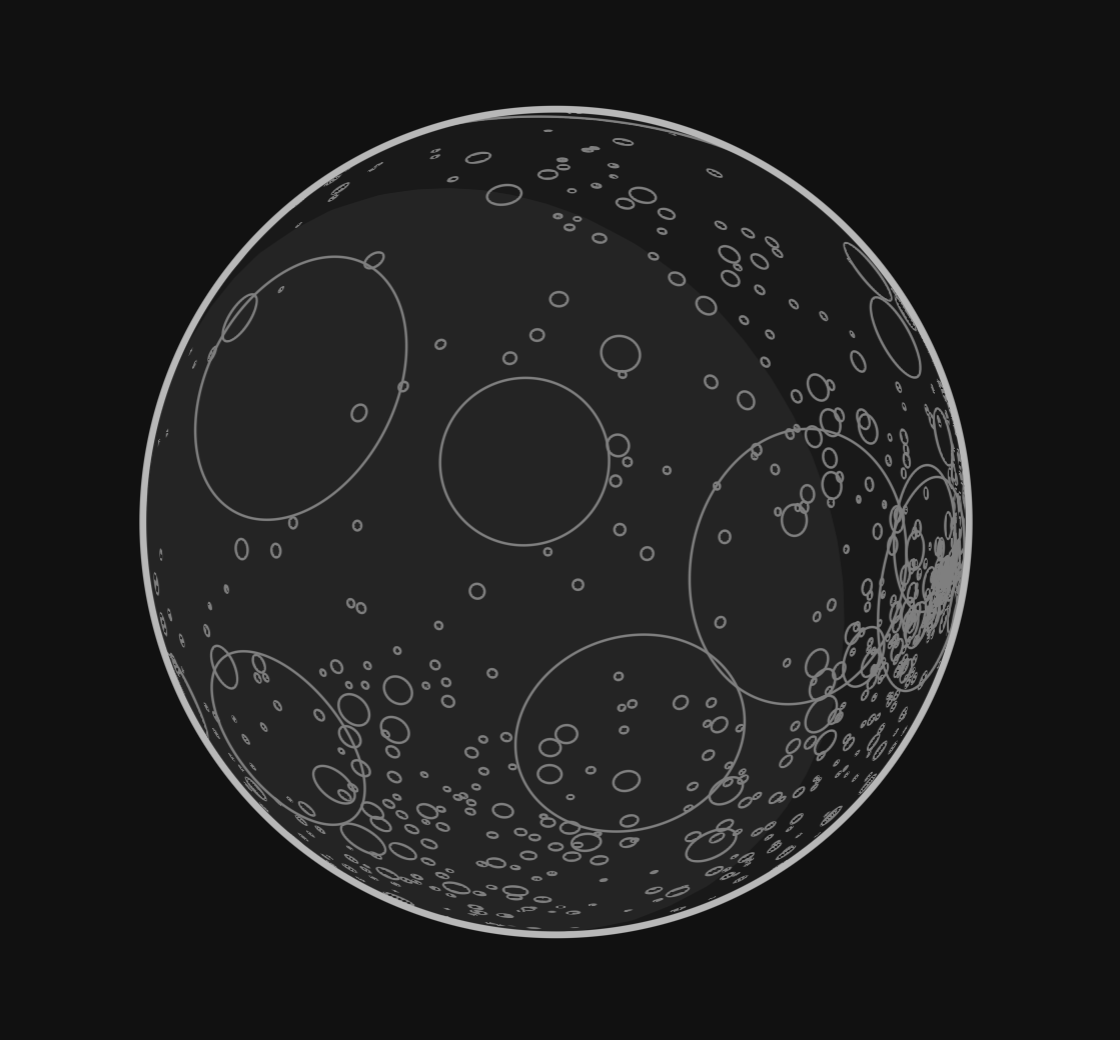
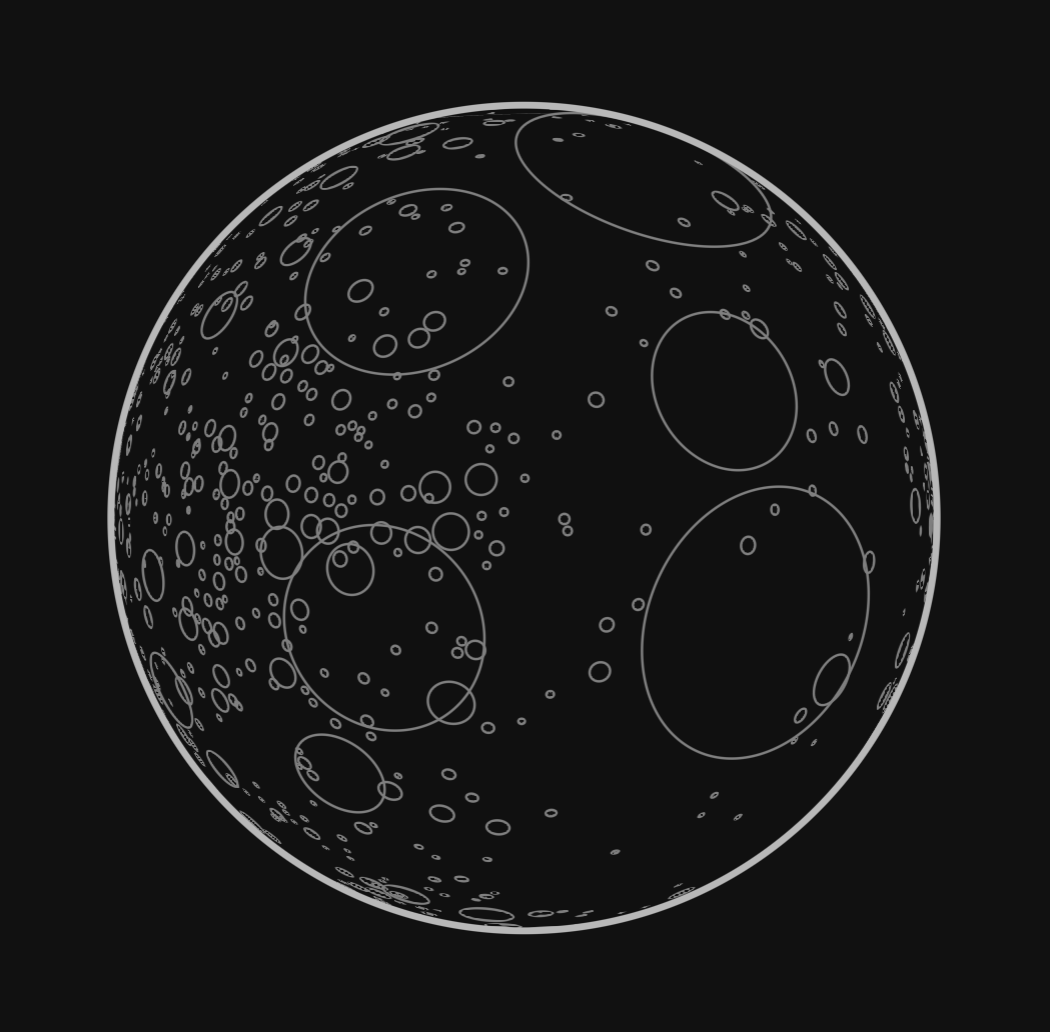
Crater page

diff --git a/pages/lab/craters/MoonCraters.tsx b/pages/lab/craters/MoonCraters.tsx
@@ -49,7 +49,7 @@ export function MoonCraters() {
         />
       </Billboard>
       <Sphere args={[RADIUS * 0.99, 32, 32]}>
-        <meshToonMaterial color="gray" />
+        <meshBasicMaterial color={new THREE.Color(0x222222)} />
       </Sphere>
       <directionalLight position={[0, 0, 1]} intensity={0.5} />
       {craters.map((crater, i) => {
